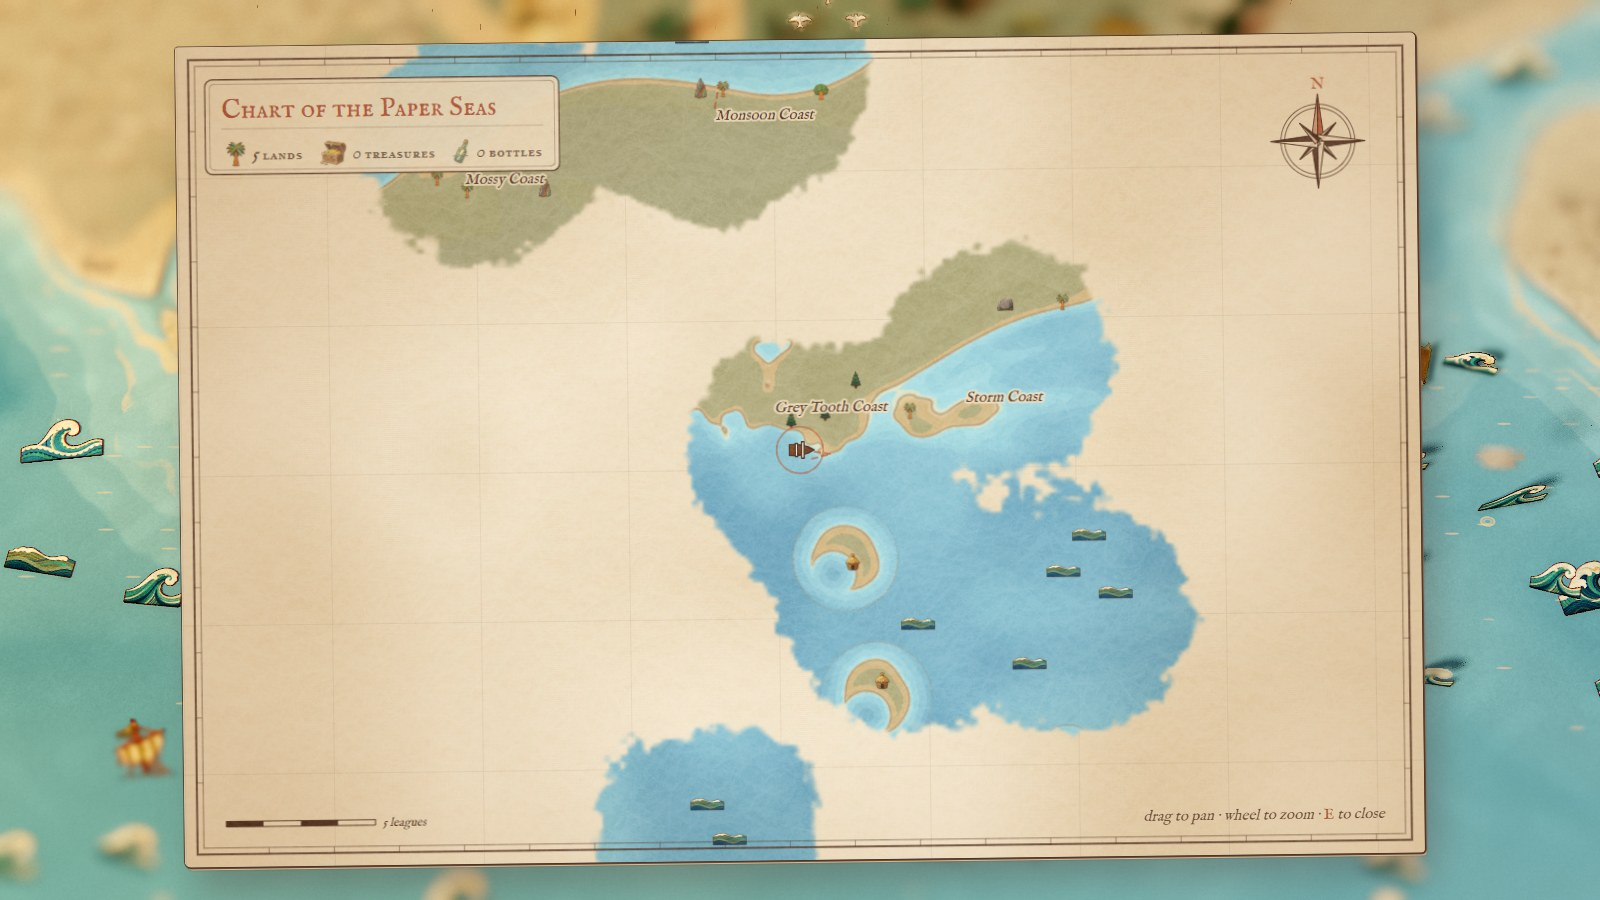
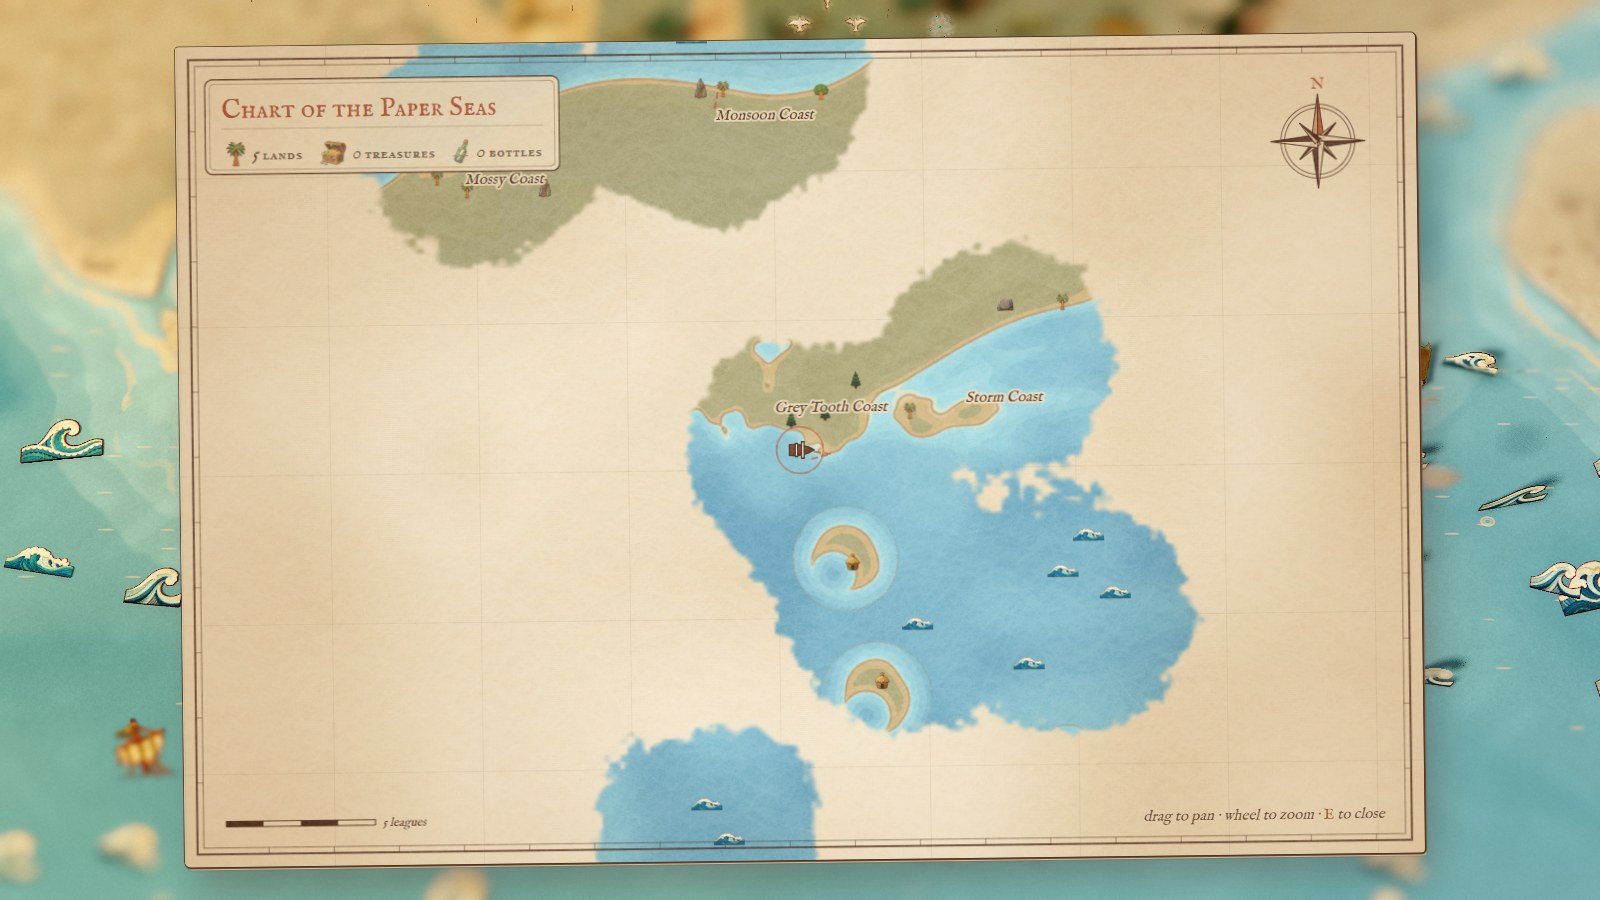
fix: the waves blue, like the sea (no olive or green-teal layers)
- The low swell regenerated in Flow with the blue waves as its reference; the big curl and the tall wave repainted
  from their own old cards in its blues, their shapes kept. Each on its own sheet (assets-src/flow/06-waves-*.png)
  with its prompt; only the small wave still comes from 06-waves.
- docs/art-pipeline.md says why and how; README screenshots retaken.

diff --git a/docs/art-pipeline.md b/docs/art-pipeline.md
@@ -14,6 +14,12 @@ KEY set to the sheet's key colour: magenta `#FF00FF`, green `#00FF00` where a pi
 with two reference images attached: `assets-src/flow/00-style-sheets.jpg` (finished sheets of this set) and
 `00-style-oasis.jpg` (a frame of the skill's gallery, MIT licence).
 
+The waves came out with olive and green-teal layers (the style's palette names olive and sage), so three were redone
+one per sheet, blue only: the low swell (`06-waves-swell`) with the blue waves as its first reference, the big curl and
+the tall wave (`06-waves-curl`, `06-waves-tall`) repainted from their own old cards (first reference) in the swell's
+blues (second), the style's reference sentence read as "the first is the card to repaint, the second shows the colours
+to repaint it in". Only the small wave still comes from `06-waves`.
+
 ```bash
 npm run art:cut                                   # cut every sheet of tools/art/sprite-sheets.json into public/art
 node tools/art/crop-card.mjs <sheet> <out> <x0> <y0> <x1> <y1>   # crop by hand a card the cutter cannot separate
